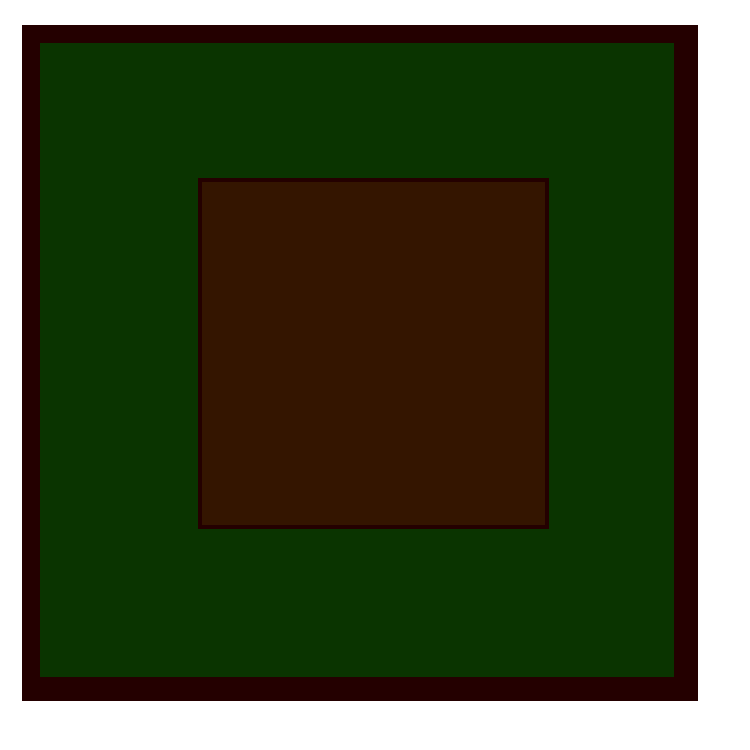
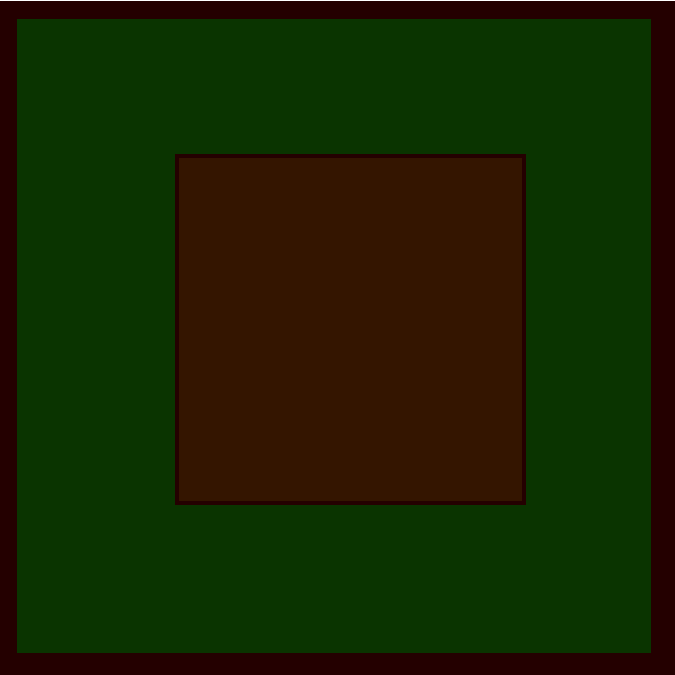
fix table

diff --git a/src/ui/index.js b/src/ui/index.js
@@ -14,13 +14,15 @@ function calcAngle(angle){
 }
 
 
-
+// Size constants
+const WIDTH = 700;
+const HEIGHT = 700;
 
 var config = {
     type: Phaser.AUTO,
     parent: 'phaser-example',
-    width: 800,
-    height: 600,
+    width: WIDTH,
+    height: HEIGHT,
     scene: {
         preload: preload,
         create: create
@@ -52,12 +54,13 @@ function preload()
 {
     this.load.image('table', 'assets/table.png');
     this.load.image('back', 'assets/cards/back.png');
-    loadCards(this)
+    loadCards(this);
 }
 
 function create ()
 {
-    this.add.sprite(400,310,'table').setScale(0.9)
+    this.bg = this.add.image(WIDTH/2,HEIGHT/2,'table');
+    this.bg.setDisplaySize(WIDTH, HEIGHT);
     //Changed later on, Number of Users
     let NumOfUsers = 3
     let CardBiz = createDeckGroups(NumOfUsers)
